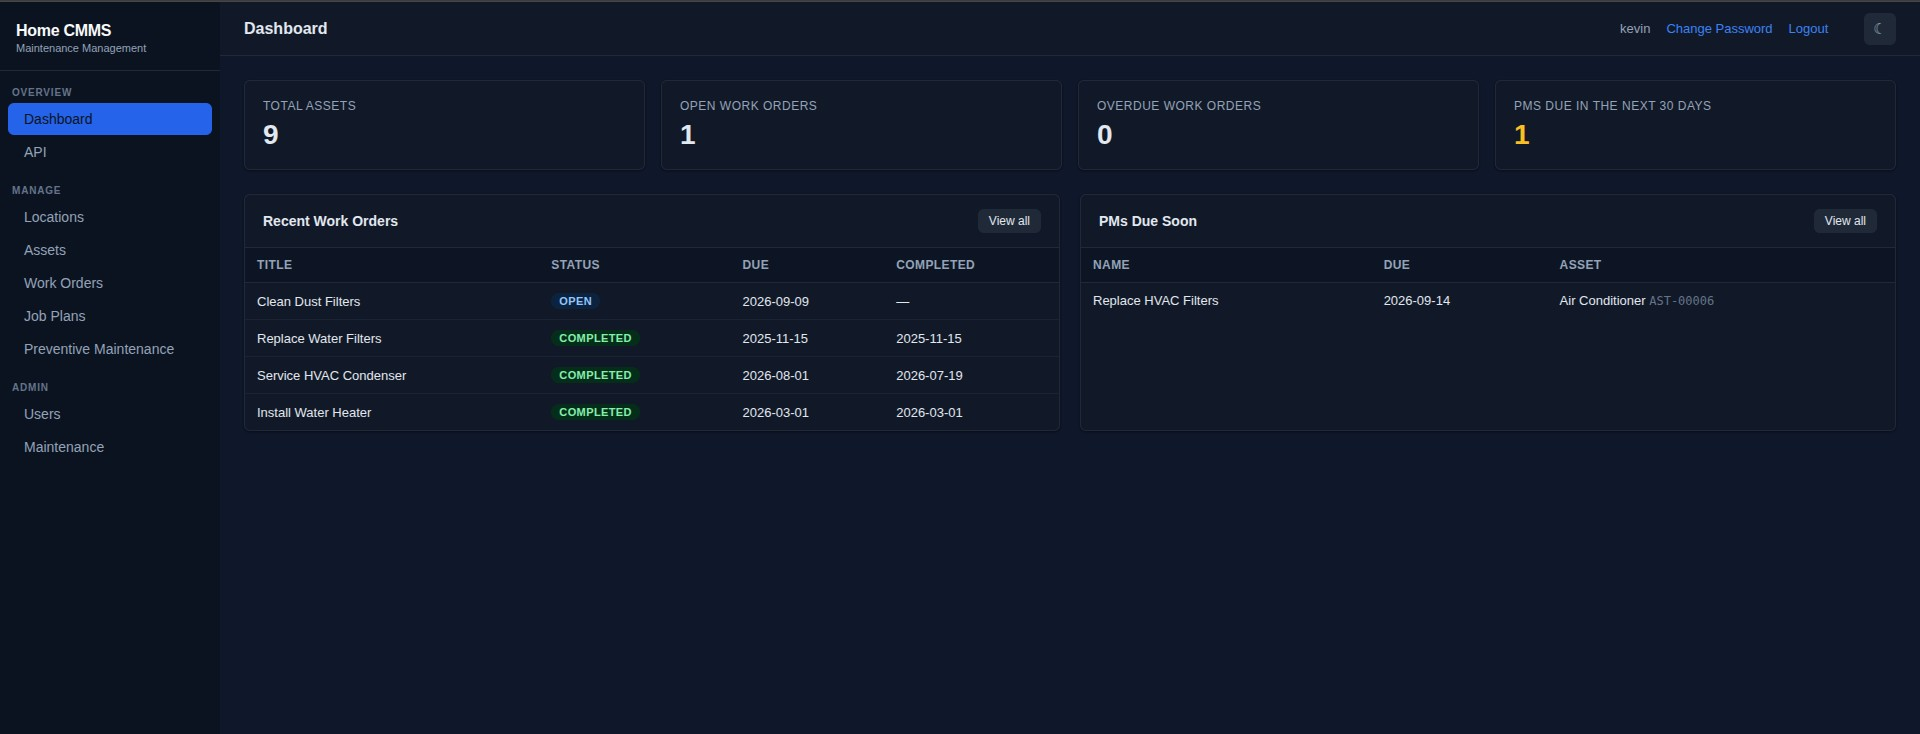
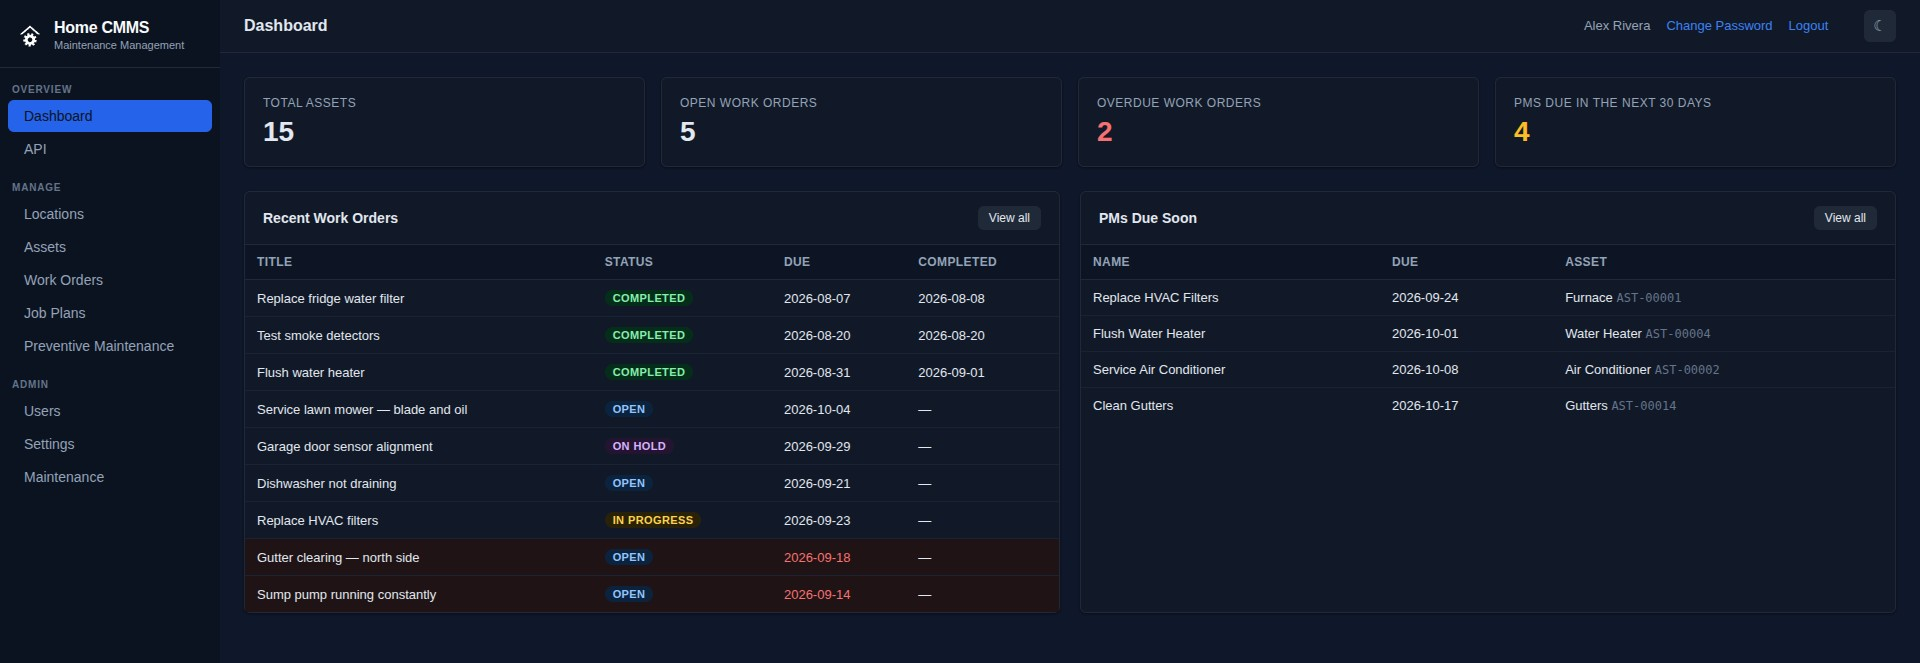
Updated readme. Removed outdated information.

diff --git a/README.md b/README.md
@@ -19,39 +19,45 @@ Home CMMS borrows the parts of industrial maintenance software that actually mat
 ## What's in it
 
 **Assets** — appliances, HVAC, plumbing, whatever you want to track. Each gets a location, make/model, dates, photos, and a running
-list of the parts you've used on it. Assets nest, so a compressor can live inside he HVAC unit it belongs to.
+list of the parts you've used on it. Assets nest, so a compressor can live inside the HVAC unit it belongs to.
 
 **Locations** — rooms, floors, outbuildings, also nested. Both assets and locations carry a status (Active / Inactive / Decommissioned).
 
 **Work orders** — planned and unplanned, with
 priorities, due dates, assignees, and a checklist of tasks. Each carries its own materials and tools list.
 
-**Job plans** — like reusable checklists or job instructions. Tasks can have time estimates, plus the materials and tools the job needs. Attach a job plan to a work order or PMs.
+**Job plans** — like reusable checklists or job instructions. Tasks can have time estimates, plus the materials and tools the job needs. Attach a job plan to a work order or a PM.
 
-**PM schedules** — **P**reventative **M**aintneance schedules generate work orders automatically based on rules that you set, either keeping a fixed calendar rhythm or floating from when you last actually finished the job. Lead times and grace windows give you flexibility to when work should be completed before showing overdue, when still being completed in an acceptable window.
+**PM schedules** — **P**reventive **M**aintenance schedules generate work orders automatically based on rules that you set, either keeping a fixed calendar rhythm or floating from when you last actually finished the job. Lead times and grace windows give you flexibility to when work should be completed before showing overdue, when still being completed in an acceptable window.
 
-**Attachments** — Easily attach manuals, receipts, photos, etc to locations, asseets, job plans, and work orders so that documents can easily be referenced, and pictures of parts or work performed can be easily reviewed later. 
+**Attachments** — Easily attach manuals, receipts, photos, etc to locations, assets, job plans, and work orders so that documents can easily be referenced, and pictures of parts or work performed can be easily reviewed later. 
 
 **Also:** a REST API with per-integration bearer tokens and its own OpenAPI docs at `/api/v1/docs`, an admin area for users and housekeeping, backups and restore from the browser.
 
 ---
 
 ## Quick start
+
+Runs the published image — no clone, no build.
+
 ```bash
-git clone https://github.com/Knator/Home-CMMS.git
-cd Home-CMMS
-cp .env.docker.example .env
-$EDITOR .env                     # at minimum, set TZ
-docker compose up -d --build
+mkdir home-cmms && cd home-cmms
+
+curl -o docker-compose.yml https://raw.githubusercontent.com/Knator/Home-CMMS/master/docker-compose.ghcr.yml
+curl -o .env https://raw.githubusercontent.com/Knator/Home-CMMS/master/.env.docker.example
+nano .env                    # at minimum, set TZ
+
+docker compose pull
+docker compose up -d
 ```
 
-Open `http://<your-host>:8080`. On a fresh instance you land on a setup page that creates the first administrator account.
+Open `http://<your-host>:8080`. The first start creates the database, generates a signing key and applies all migrations — a few seconds — then shows a **setup page** that creates the first administrator.
 
-> **Complete setup straight away.** Until an account exists, anyone who can reach the instance can claim the administrator account. The page closes permanently once one account exists. Don't put a fresh instance on an untrusted network before finishing setup.
+> **Complete setup straight away.** Until an account exists, anyone who can reach the instance can claim the administrator account — the same trade-off Immich, Home Assistant, Nextcloud and Gitea make. The page closes permanently once one account exists.
+>
+> To avoid the window entirely, set `ADMIN_USERNAME`/`ADMIN_PASSWORD` so the account exists before anything listens, or `SETUP_WINDOW_MINUTES=5` to close the page shortly after startup.
 
-> **Pass `--build` whenever the source changes.** This stack builds from the repository rather than pulling a published image, so a plain `docker compose up -d` alone reuses the image it built last time — and re-cloning doesn't help, because the stale image is what runs.
-
-The first start creates the database, generates a signing key, and applies all migrations. [`DOCKER.md`](DOCKER.md) covers every environment variable, reverse proxy setup, backups, restores and the security notes.
+[`DOCKER.md`](DOCKER.md) covers pinning a version, every environment variable, building from source instead, reverse proxies, backups, restores and the security notes.
 
 ### Without Docker
 
